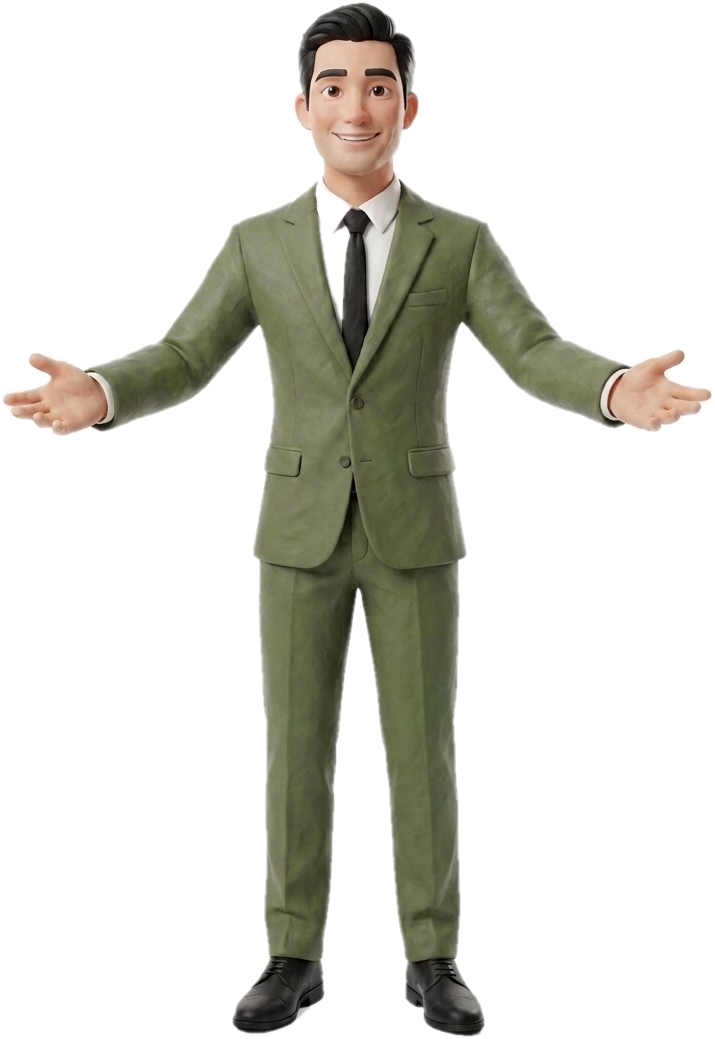
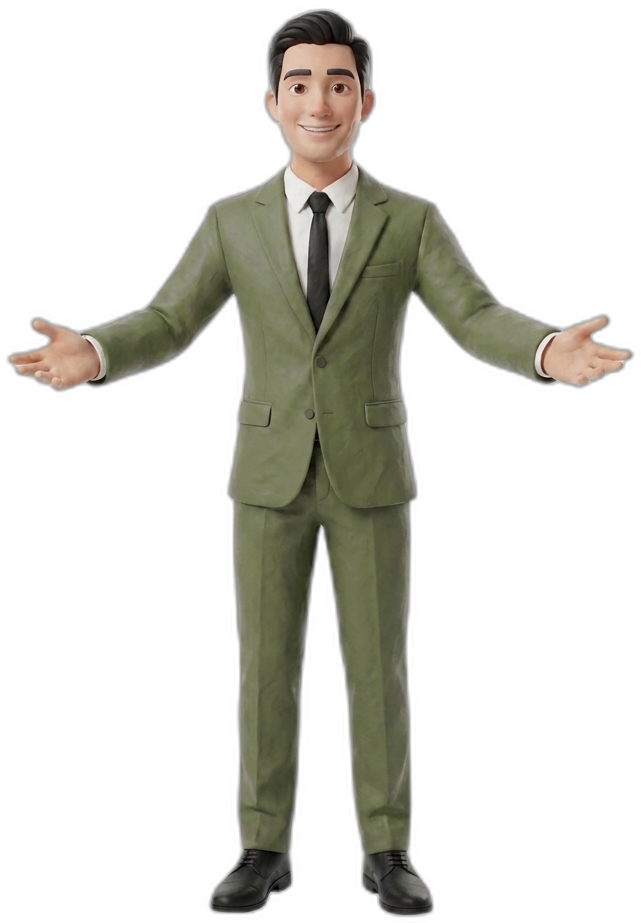
Tách nền trong suốt bộ ba nhân vật chính thức bằng AI (rembg/U2Net)
- lumina-ao-dai.png: Hương áo dài trắng vẫy tay — nền trong suốt, váy
  trắng nguyên vẹn (khắc phục hạn chế của flood-fill/GrabCut trước đây)
- lumina-vest.png: Hương bản Quốc tế váy công sở — nền trong suốt
- anh-tu-welcome.png: thầy Tú dang tay chào đón — bản tách nền mới
  sắc nét hơn từ render trắng chính thức
- Nhân vật giờ nổi thật sự trên mọi nền: hero trang giới thiệu, trang
  đội ngũ, thẻ trưng bày, avatar trong game
- sw.js: cache v23

diff --git a/sw.js b/sw.js
@@ -1,7 +1,7 @@
 /* BizOn Bật Nghiệp 2026 — Service Worker (offline app shell)
  * © 2026 Đỗ Thùy Hương & PGS.TS Phan Anh Tú. Bảo lưu mọi quyền. */
 
-const CACHE = 'bizon-v22';
+const CACHE = 'bizon-v23';
 const SHELL = [
   './',
   './index.html',
